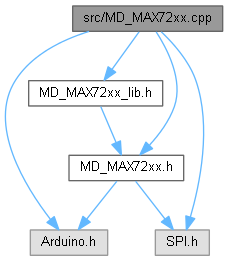
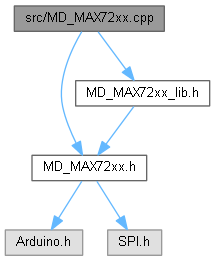
Changed __MBED__ #define handling from v3.2.5 (MBED_SPI_ACTIVE). This may break MBED implementations as unable to test.

diff --git a/docs/_m_d___m_a_x72xx_8cpp.html b/docs/_m_d___m_a_x72xx_8cpp.html
@@ -97,9 +97,7 @@ $(document).ready(function(){initNavTree('_m_d___m_a_x72xx_8cpp.html',''); initR
 
 <p>Implements class definition and general methods.  
 <a href="#details">More...</a></p>
-<div class="textblock"><code>#include &lt;Arduino.h&gt;</code><br />
-<code>#include &lt;SPI.h&gt;</code><br />
-<code>#include &quot;<a class="el" href="_m_d___m_a_x72xx_8h.html">MD_MAX72xx.h</a>&quot;</code><br />
+<div class="textblock"><code>#include &quot;<a class="el" href="_m_d___m_a_x72xx_8h.html">MD_MAX72xx.h</a>&quot;</code><br />
 <code>#include &quot;<a class="el" href="_m_d___m_a_x72xx__lib_8h.html">MD_MAX72xx_lib.h</a>&quot;</code><br />
 </div><div class="textblock"><div id="dynsection-0" onclick="return toggleVisibility(this)" class="dynheader closed" style="cursor:pointer;">
   <img id="dynsection-0-trigger" src="closed.png" alt="+"/> Include dependency graph for MD_MAX72xx.cpp:</div>
@@ -108,11 +106,11 @@ $(document).ready(function(){initNavTree('_m_d___m_a_x72xx_8cpp.html',''); initR
 <div id="dynsection-0-content" class="dyncontent" style="display:none;">
 <div class="center"><img src="_m_d___m_a_x72xx_8cpp__incl.png" border="0" usemap="#asrc_2_m_d___m_a_x72xx_8cpp" alt=""/></div>
 <map name="asrc_2_m_d___m_a_x72xx_8cpp" id="asrc_2_m_d___m_a_x72xx_8cpp">
-<area shape="rect" title="Implements class definition and general methods." alt="" coords="72,6,222,31"/>
-<area shape="rect" title=" " alt="" coords="30,230,108,255"/>
-<area shape="rect" title=" " alt="" coords="155,230,209,255"/>
-<area shape="rect" href="_m_d___m_a_x72xx_8h.html" title="Main header file for the MD_MAX72xx library." alt="" coords="69,155,184,181"/>
-<area shape="rect" href="_m_d___m_a_x72xx__lib_8h.html" title="Includes library definitions." alt="" coords="28,81,162,106"/>
+<area shape="rect" title="Implements class definition and general methods." alt="" coords="14,6,164,31"/>
+<area shape="rect" href="_m_d___m_a_x72xx_8h.html" title="Main header file for the MD_MAX72xx library." alt="" coords="32,155,147,181"/>
+<area shape="rect" href="_m_d___m_a_x72xx__lib_8h.html" title="Includes library definitions." alt="" coords="75,81,209,106"/>
+<area shape="rect" title=" " alt="" coords="5,230,83,255"/>
+<area shape="rect" title=" " alt="" coords="107,230,161,255"/>
 </map>
 </div>
 </div><a name="details" id="details"></a><h2 class="groupheader">Detailed Description</h2>
@@ -123,7 +121,7 @@ $(document).ready(function(){initNavTree('_m_d___m_a_x72xx_8cpp.html',''); initR
 <div id="nav-path" class="navpath"><!-- id is needed for treeview function! -->
   <ul>
     <li class="navelem"><a class="el" href="dir_68267d1309a1af8e8297ef4c3efbcdba.html">src</a></li><li class="navelem"><a class="el" href="_m_d___m_a_x72xx_8cpp.html">MD_MAX72xx.cpp</a></li>
-    <li class="footer">Generated on Wed May 24 2023 16:08:20 for MD_MAX72xx LED Matrix Arduino Library by <a href="https://www.doxygen.org/index.html"><img class="footer" src="doxygen.svg" width="104" height="31" alt="doxygen"/></a> 1.9.6 </li>
+    <li class="footer">Generated on Fri Jun 2 2023 14:58:06 for MD_MAX72xx LED Matrix Arduino Library by <a href="https://www.doxygen.org/index.html"><img class="footer" src="doxygen.svg" width="104" height="31" alt="doxygen"/></a> 1.9.6 </li>
   </ul>
 </div>
 </body>

diff --git a/docs/_m_d___m_a_x72xx_8h.html b/docs/_m_d___m_a_x72xx_8h.html
@@ -137,6 +137,9 @@ Classes</h2></td></tr>
 </table><table class="memberdecls">
 <tr class="heading"><td colspan="2"><h2 class="groupheader"><a id="define-members" name="define-members"></a>
 Macros</h2></td></tr>
+<tr class="memitem:a6c25e9e31b943073d30c4d04d5ea8fbc"><td class="memItemLeft" align="right" valign="top"><a id="a6c25e9e31b943073d30c4d04d5ea8fbc" name="a6c25e9e31b943073d30c4d04d5ea8fbc"></a>
+#define&#160;</td><td class="memItemRight" valign="bottom"><b>MBED_SPI_ACTIVE</b>&#160;&#160;&#160;(defined(__MBED__) &amp;&amp; !defined(ARDUINO))</td></tr>
+<tr class="separator:a6c25e9e31b943073d30c4d04d5ea8fbc"><td class="memSeparator" colspan="2">&#160;</td></tr>
 <tr class="memitem:a156ea396ee2a9dd550bc3a78ce65162b"><td class="memItemLeft" align="right" valign="top">#define&#160;</td><td class="memItemRight" valign="bottom"><a class="el" href="_m_d___m_a_x72xx_8h.html#a156ea396ee2a9dd550bc3a78ce65162b">USE_LOCAL_FONT</a>&#160;&#160;&#160;1</td></tr>
 <tr class="separator:a156ea396ee2a9dd550bc3a78ce65162b"><td class="memSeparator" colspan="2">&#160;</td></tr>
 <tr class="memitem:aa4d030604a90c8d019d90fc721900d63"><td class="memItemLeft" align="right" valign="top"><a id="aa4d030604a90c8d019d90fc721900d63" name="aa4d030604a90c8d019d90fc721900d63"></a>
@@ -180,7 +183,7 @@ Macros</h2></td></tr>
 <div id="nav-path" class="navpath"><!-- id is needed for treeview function! -->
   <ul>
     <li class="navelem"><a class="el" href="dir_68267d1309a1af8e8297ef4c3efbcdba.html">src</a></li><li class="navelem"><a class="el" href="_m_d___m_a_x72xx_8h.html">MD_MAX72xx.h</a></li>
-    <li class="footer">Generated on Wed May 24 2023 16:08:20 for MD_MAX72xx LED Matrix Arduino Library by <a href="https://www.doxygen.org/index.html"><img class="footer" src="doxygen.svg" width="104" height="31" alt="doxygen"/></a> 1.9.6 </li>
+    <li class="footer">Generated on Fri Jun 2 2023 14:58:06 for MD_MAX72xx LED Matrix Arduino Library by <a href="https://www.doxygen.org/index.html"><img class="footer" src="doxygen.svg" width="104" height="31" alt="doxygen"/></a> 1.9.6 </li>
   </ul>
 </div>
 </body>

diff --git a/docs/page_new_hardware.html b/docs/page_new_hardware.html
@@ -134,7 +134,7 @@ Seg DP
 <p>Having determined the values for the module type, this can be used in the application. If the type does not correspond to a standard type, then it is possible to set an alternative although these are not guaranteed to work unless they have been tested. Alternative hardware names follow a template structure given in the table below</p>
 <table class="markdownTable">
 <tr class="markdownTableHead">
-<th class="markdownTableHeadCenter">Digits as rows   </th><th class="markdownTableHeadCenter">Col Rev   </th><th class="markdownTableHeadCenter">Row Rev   </th><th class="markdownTableHeadLeft">HW module    </th></tr>
+<th class="markdownTableHeadCenter">Digits as rows (DR)   </th><th class="markdownTableHeadCenter">Col Rev (CR)   </th><th class="markdownTableHeadCenter">Row Rev (RR)   </th><th class="markdownTableHeadLeft">HW module    </th></tr>
 <tr class="markdownTableRowOdd">
 <td class="markdownTableBodyCenter">NO   </td><td class="markdownTableBodyCenter">NO   </td><td class="markdownTableBodyCenter">NO   </td><td class="markdownTableBodyLeft">DR0CR0RR0_HW    </td></tr>
 <tr class="markdownTableRowEven">
@@ -160,7 +160,7 @@ Seg DP
 <div id="nav-path" class="navpath"><!-- id is needed for treeview function! -->
   <ul>
     <li class="navelem"><a class="el" href="index.html">Arduino LED Matrix Library</a></li><li class="navelem"><a class="el" href="page_hardware.html">Hardware</a></li>
-    <li class="footer">Generated on Wed May 24 2023 16:08:20 for MD_MAX72xx LED Matrix Arduino Library by <a href="https://www.doxygen.org/index.html"><img class="footer" src="doxygen.svg" width="104" height="31" alt="doxygen"/></a> 1.9.6 </li>
+    <li class="footer">Generated on Fri Jun 2 2023 14:58:06 for MD_MAX72xx LED Matrix Arduino Library by <a href="https://www.doxygen.org/index.html"><img class="footer" src="doxygen.svg" width="104" height="31" alt="doxygen"/></a> 1.9.6 </li>
   </ul>
 </div>
 </body>

diff --git a/docs/page_font_utility.html b/docs/page_font_utility.html
@@ -118,7 +118,6 @@ $(document).ready(function(){initNavTree('page_font_utility.html',''); initResiz
 </ul>
 <p>Version 0: If the 'F' is omitted then the font definition is considered a version 0 font (prior to MD_MAX72xx version 3.0.0) and the defaults are set to min ASCII 0, max ASCII 255, height 8. In this case byte 5 of the Version 1 font is the first byte in the file.</p>
 <p>To find a character in the font table, the library looks at the first byte (size), skips 'size'+1 bytes to the next character size byte and repeat until the last or target character is reached.</p>
-<p>The compile-time switch USE_INDEX_FONT enables indexing of the font table for faster access, at the expense of increased RAM usage. If indexing is enabled, a single lookup is required to access the character data, rather than the sequential search described above.</p>
 <p>The support for fonts (methods and data) may be completely disabled if not required through the compile-time switch USE_LOCAL_FONT. This will also disable user defined fonts.</p>
 <hr  />
 <h2>The txt2font Utility </h2>
@@ -165,7 +164,7 @@ $(document).ready(function(){initNavTree('page_font_utility.html',''); initResiz
 <div id="nav-path" class="navpath"><!-- id is needed for treeview function! -->
   <ul>
     <li class="navelem"><a class="el" href="index.html">Arduino LED Matrix Library</a></li>
-    <li class="footer">Generated on Wed May 24 2023 16:08:20 for MD_MAX72xx LED Matrix Arduino Library by <a href="https://www.doxygen.org/index.html"><img class="footer" src="doxygen.svg" width="104" height="31" alt="doxygen"/></a> 1.9.6 </li>
+    <li class="footer">Generated on Fri Jun 2 2023 14:58:06 for MD_MAX72xx LED Matrix Arduino Library by <a href="https://www.doxygen.org/index.html"><img class="footer" src="doxygen.svg" width="104" height="31" alt="doxygen"/></a> 1.9.6 </li>
   </ul>
 </div>
 </body>

diff --git a/docs/page_revision_history.html b/docs/page_revision_history.html
@@ -94,7 +94,10 @@ $(document).ready(function(){initNavTree('page_revision_history.html',''); initR
   <div class="headertitle"><div class="title">Revision History </div></div>
 </div><!--header-->
 <div class="contents">
-<div class="textblock"><p>May 2023 version 3.4.0</p><ul>
+<div class="textblock"><p>Jun 2023 version 3.4.1</p><ul>
+<li>Changed <b>MBED</b> #define handling from v3.2.5 (MBED_SPI_ACTIVE). This may break MBED implementations as unable to test.</li>
+</ul>
+<p>May 2023 version 3.4.0</p><ul>
 <li>begin() now returns bool value.</li>
 </ul>
 <p>Oct 2022 version 3.3.1</p><ul>
@@ -268,7 +271,7 @@ $(document).ready(function(){initNavTree('page_revision_history.html',''); initR
 <div id="nav-path" class="navpath"><!-- id is needed for treeview function! -->
   <ul>
     <li class="navelem"><a class="el" href="index.html">Arduino LED Matrix Library</a></li>
-    <li class="footer">Generated on Wed May 24 2023 16:08:20 for MD_MAX72xx LED Matrix Arduino Library by <a href="https://www.doxygen.org/index.html"><img class="footer" src="doxygen.svg" width="104" height="31" alt="doxygen"/></a> 1.9.6 </li>
+    <li class="footer">Generated on Fri Jun 2 2023 14:58:06 for MD_MAX72xx LED Matrix Arduino Library by <a href="https://www.doxygen.org/index.html"><img class="footer" src="doxygen.svg" width="104" height="31" alt="doxygen"/></a> 1.9.6 </li>
   </ul>
 </div>
 </body>

diff --git a/docs/_m_d___m_a_x72xx__buf_8cpp.html b/docs/_m_d___m_a_x72xx__buf_8cpp.html
@@ -121,7 +121,7 @@ $(document).ready(function(){initNavTree('_m_d___m_a_x72xx__buf_8cpp.html',''); 
 <div id="nav-path" class="navpath"><!-- id is needed for treeview function! -->
   <ul>
     <li class="navelem"><a class="el" href="dir_68267d1309a1af8e8297ef4c3efbcdba.html">src</a></li><li class="navelem"><a class="el" href="_m_d___m_a_x72xx__buf_8cpp.html">MD_MAX72xx_buf.cpp</a></li>
-    <li class="footer">Generated on Wed May 24 2023 16:08:20 for MD_MAX72xx LED Matrix Arduino Library by <a href="https://www.doxygen.org/index.html"><img class="footer" src="doxygen.svg" width="104" height="31" alt="doxygen"/></a> 1.9.6 </li>
+    <li class="footer">Generated on Fri Jun 2 2023 14:58:06 for MD_MAX72xx LED Matrix Arduino Library by <a href="https://www.doxygen.org/index.html"><img class="footer" src="doxygen.svg" width="104" height="31" alt="doxygen"/></a> 1.9.6 </li>
   </ul>
 </div>
 </body>

diff --git a/docs/_m_d___m_a_x72xx__pix_8cpp.html b/docs/_m_d___m_a_x72xx__pix_8cpp.html
@@ -121,7 +121,7 @@ $(document).ready(function(){initNavTree('_m_d___m_a_x72xx__pix_8cpp.html',''); 
 <div id="nav-path" class="navpath"><!-- id is needed for treeview function! -->
   <ul>
     <li class="navelem"><a class="el" href="dir_68267d1309a1af8e8297ef4c3efbcdba.html">src</a></li><li class="navelem"><a class="el" href="_m_d___m_a_x72xx__pix_8cpp.html">MD_MAX72xx_pix.cpp</a></li>
-    <li class="footer">Generated on Wed May 24 2023 16:08:20 for MD_MAX72xx LED Matrix Arduino Library by <a href="https://www.doxygen.org/index.html"><img class="footer" src="doxygen.svg" width="104" height="31" alt="doxygen"/></a> 1.9.6 </li>
+    <li class="footer">Generated on Fri Jun 2 2023 14:58:06 for MD_MAX72xx LED Matrix Arduino Library by <a href="https://www.doxygen.org/index.html"><img class="footer" src="doxygen.svg" width="104" height="31" alt="doxygen"/></a> 1.9.6 </li>
   </ul>
 </div>
 </body>

diff --git a/docs/_m_d___m_a_x72xx__lib_8h.html b/docs/_m_d___m_a_x72xx__lib_8h.html
@@ -259,7 +259,7 @@ const uint8_t PROGMEM&#160;</td><td class="memItemRight" valign="bottom"><b>_sys
 <div id="nav-path" class="navpath"><!-- id is needed for treeview function! -->
   <ul>
     <li class="navelem"><a class="el" href="dir_68267d1309a1af8e8297ef4c3efbcdba.html">src</a></li><li class="navelem"><a class="el" href="_m_d___m_a_x72xx__lib_8h.html">MD_MAX72xx_lib.h</a></li>
-    <li class="footer">Generated on Wed May 24 2023 16:08:20 for MD_MAX72xx LED Matrix Arduino Library by <a href="https://www.doxygen.org/index.html"><img class="footer" src="doxygen.svg" width="104" height="31" alt="doxygen"/></a> 1.9.6 </li>
+    <li class="footer">Generated on Fri Jun 2 2023 14:58:06 for MD_MAX72xx LED Matrix Arduino Library by <a href="https://www.doxygen.org/index.html"><img class="footer" src="doxygen.svg" width="104" height="31" alt="doxygen"/></a> 1.9.6 </li>
   </ul>
 </div>
 </body>

diff --git a/docs/page_generic.html b/docs/page_generic.html
@@ -132,7 +132,7 @@ $(document).ready(function(){initNavTree('page_generic.html',''); initResizable(
 <div id="nav-path" class="navpath"><!-- id is needed for treeview function! -->
   <ul>
     <li class="navelem"><a class="el" href="index.html">Arduino LED Matrix Library</a></li><li class="navelem"><a class="el" href="page_hardware.html">Hardware</a></li>
-    <li class="footer">Generated on Wed May 24 2023 16:08:20 for MD_MAX72xx LED Matrix Arduino Library by <a href="https://www.doxygen.org/index.html"><img class="footer" src="doxygen.svg" width="104" height="31" alt="doxygen"/></a> 1.9.6 </li>
+    <li class="footer">Generated on Fri Jun 2 2023 14:58:06 for MD_MAX72xx LED Matrix Arduino Library by <a href="https://www.doxygen.org/index.html"><img class="footer" src="doxygen.svg" width="104" height="31" alt="doxygen"/></a> 1.9.6 </li>
   </ul>
 </div>
 </body>

diff --git a/docs/_m_d___m_a_x72xx__font_8cpp.html b/docs/_m_d___m_a_x72xx__font_8cpp.html
@@ -138,7 +138,7 @@ Variables</h2></td></tr>
 <div id="nav-path" class="navpath"><!-- id is needed for treeview function! -->
   <ul>
     <li class="navelem"><a class="el" href="dir_68267d1309a1af8e8297ef4c3efbcdba.html">src</a></li><li class="navelem"><a class="el" href="_m_d___m_a_x72xx__font_8cpp.html">MD_MAX72xx_font.cpp</a></li>
-    <li class="footer">Generated on Wed May 24 2023 16:08:20 for MD_MAX72xx LED Matrix Arduino Library by <a href="https://www.doxygen.org/index.html"><img class="footer" src="doxygen.svg" width="104" height="31" alt="doxygen"/></a> 1.9.6 </li>
+    <li class="footer">Generated on Fri Jun 2 2023 14:58:06 for MD_MAX72xx LED Matrix Arduino Library by <a href="https://www.doxygen.org/index.html"><img class="footer" src="doxygen.svg" width="104" height="31" alt="doxygen"/></a> 1.9.6 </li>
   </ul>
 </div>
 </body>

diff --git a/docs/page_f_c16.html b/docs/page_f_c16.html
@@ -121,7 +121,7 @@ DOUT &lt;---|                      3 | D3 &lt;--- DIN
 <div id="nav-path" class="navpath"><!-- id is needed for treeview function! -->
   <ul>
     <li class="navelem"><a class="el" href="index.html">Arduino LED Matrix Library</a></li><li class="navelem"><a class="el" href="page_hardware.html">Hardware</a></li>
-    <li class="footer">Generated on Wed May 24 2023 16:08:20 for MD_MAX72xx LED Matrix Arduino Library by <a href="https://www.doxygen.org/index.html"><img class="footer" src="doxygen.svg" width="104" height="31" alt="doxygen"/></a> 1.9.6 </li>
+    <li class="footer">Generated on Fri Jun 2 2023 14:58:06 for MD_MAX72xx LED Matrix Arduino Library by <a href="https://www.doxygen.org/index.html"><img class="footer" src="doxygen.svg" width="104" height="31" alt="doxygen"/></a> 1.9.6 </li>
   </ul>
 </div>
 </body>

diff --git a/docs/page_i_c_station.html b/docs/page_i_c_station.html
@@ -121,7 +121,7 @@ DOUT &lt;---|                      3 | D4 &lt;--- DIN
 <div id="nav-path" class="navpath"><!-- id is needed for treeview function! -->
   <ul>
     <li class="navelem"><a class="el" href="index.html">Arduino LED Matrix Library</a></li><li class="navelem"><a class="el" href="page_hardware.html">Hardware</a></li>
-    <li class="footer">Generated on Wed May 24 2023 16:08:20 for MD_MAX72xx LED Matrix Arduino Library by <a href="https://www.doxygen.org/index.html"><img class="footer" src="doxygen.svg" width="104" height="31" alt="doxygen"/></a> 1.9.6 </li>
+    <li class="footer">Generated on Fri Jun 2 2023 14:58:06 for MD_MAX72xx LED Matrix Arduino Library by <a href="https://www.doxygen.org/index.html"><img class="footer" src="doxygen.svg" width="104" height="31" alt="doxygen"/></a> 1.9.6 </li>
   </ul>
 </div>
 </body>
